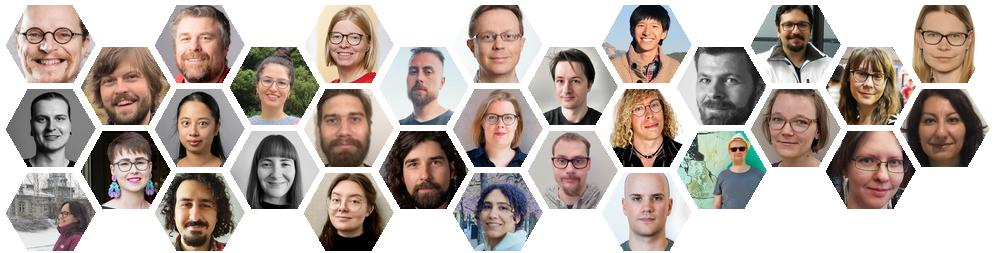
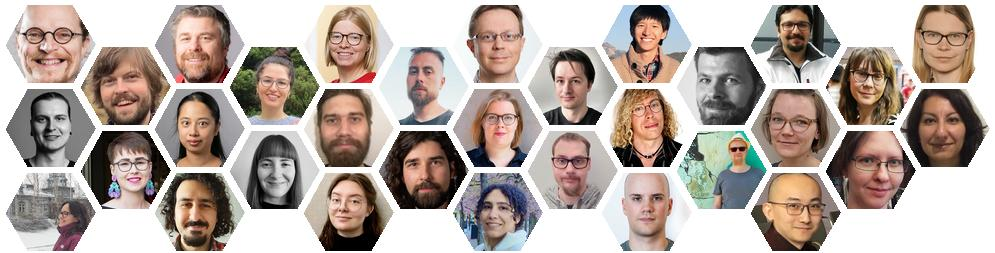
Renhao

Changed region(s): [[0.7477, 0.664, 0.8412, 0.996]]

diff --git a/people.md b/people.md
@@ -344,7 +344,14 @@ title: People
 				<h4>Research assistant</h4>
       	    </div>
         </div>
-		<div class="col-4u 12u$(small)"> </div>
+			<div class="col-4u 12u$(small)">
+            <span class="image"><img src="assets/images/renhao_pei.jpg" alt="Renhao Pei" /></span>
+            <div class="content">
+	    		<h3><a href="https://www.utu.fi/en/people/renhao-pei">Renhao Pei</a></h3>
+				<h4>Doctoral researcher</h4>
+      	    </div>
+        </div>
+
 </div>
 
 </section>
